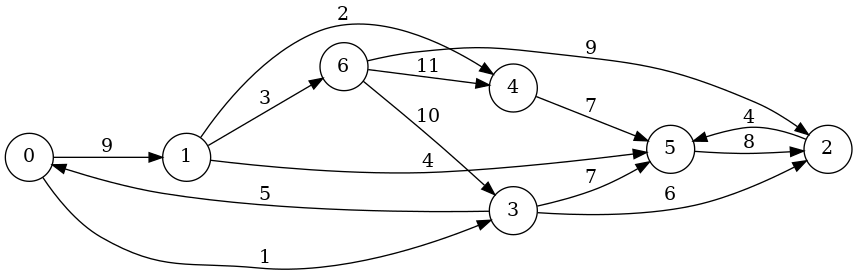
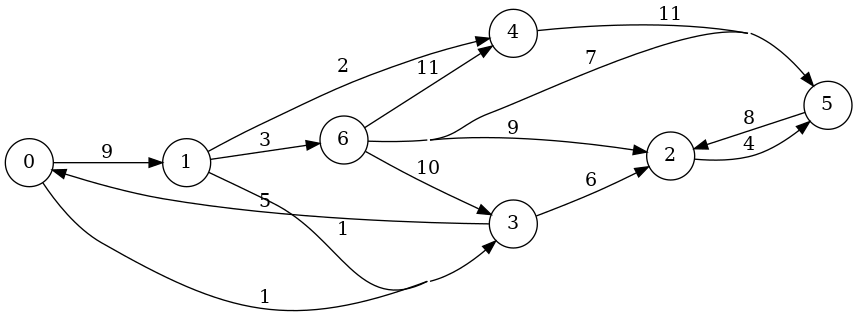
pdoc gen

diff --git a/docs/pygraphblas/matrix.html b/docs/pygraphblas/matrix.html
@@ -706,9 +706,9 @@ class Matrix:
         ![Matrix_eadd_A.png](../imgs/Matrix_eadd_A.png)
 
         &gt;&gt;&gt; B = Matrix.from_lists(
-        ...    [0, 1, 3],
-        ...    [1, 5, 5],
-        ...    [9, 4, 7], 7, 7)
+        ...    [0, 1, 4, 6],
+        ...    [1, 3, 5, 5],
+        ...    [9, 1, 4, 7], 7, 7)
         &gt;&gt;&gt; g = draw_graph(B, filename=&#39;/docs/imgs/Matrix_eadd_B&#39;)
 
         ![Matrix_eadd_B.png](../imgs/Matrix_eadd_B.png)
@@ -717,12 +717,12 @@ class Matrix:
         &gt;&gt;&gt; print(A.eadd(B))
               0  1  2  3  4  5  6
           0|     9     1         |  0
-          1|              2  4  3|  1
+          1|           1  2     3|  1
           2|                 4   |  2
-          3|  5     6        7   |  3
-          4|                 7   |  4
+          3|  5     6            |  3
+          4|                11   |  4
           5|        8            |  5
-          6|        9 10 11      |  6
+          6|        9 10 11  7   |  6
               0  1  2  3  4  5  6
 
         ![Matrix_eadd_C.png](../imgs/Matrix_eadd_C.png)
@@ -2758,9 +2758,9 @@ various combinations of calling <code><a title="pygraphblas.matrix.Matrix.mxm" h
         ![Matrix_eadd_A.png](../imgs/Matrix_eadd_A.png)
 
         &gt;&gt;&gt; B = Matrix.from_lists(
-        ...    [0, 1, 3],
-        ...    [1, 5, 5],
-        ...    [9, 4, 7], 7, 7)
+        ...    [0, 1, 4, 6],
+        ...    [1, 3, 5, 5],
+        ...    [9, 1, 4, 7], 7, 7)
         &gt;&gt;&gt; g = draw_graph(B, filename=&#39;/docs/imgs/Matrix_eadd_B&#39;)
 
         ![Matrix_eadd_B.png](../imgs/Matrix_eadd_B.png)
@@ -2769,12 +2769,12 @@ various combinations of calling <code><a title="pygraphblas.matrix.Matrix.mxm" h
         &gt;&gt;&gt; print(A.eadd(B))
               0  1  2  3  4  5  6
           0|     9     1         |  0
-          1|              2  4  3|  1
+          1|           1  2     3|  1
           2|                 4   |  2
-          3|  5     6        7   |  3
-          4|                 7   |  4
+          3|  5     6            |  3
+          4|                11   |  4
           5|        8            |  5
-          6|        9 10 11      |  6
+          6|        9 10 11  7   |  6
               0  1  2  3  4  5  6
 
         ![Matrix_eadd_C.png](../imgs/Matrix_eadd_C.png)
@@ -5359,9 +5359,9 @@ interchangeably for either operation.</p>
 </code></pre>
 <p><img alt="Matrix_eadd_A.png" src="../imgs/Matrix_eadd_A.png"></p>
 <pre><code class="language-python-repl">&gt;&gt;&gt; B = Matrix.from_lists(
-...    [0, 1, 3],
-...    [1, 5, 5],
-...    [9, 4, 7], 7, 7)
+...    [0, 1, 4, 6],
+...    [1, 3, 5, 5],
+...    [9, 1, 4, 7], 7, 7)
 &gt;&gt;&gt; g = draw_graph(B, filename='/docs/imgs/Matrix_eadd_B')
 </code></pre>
 <p><img alt="Matrix_eadd_B.png" src="../imgs/Matrix_eadd_B.png"></p>
@@ -5369,12 +5369,12 @@ interchangeably for either operation.</p>
 &gt;&gt;&gt; print(A.eadd(B))
       0  1  2  3  4  5  6
   0|     9     1         |  0
-  1|              2  4  3|  1
+  1|           1  2     3|  1
   2|                 4   |  2
-  3|  5     6        7   |  3
-  4|                 7   |  4
+  3|  5     6            |  3
+  4|                11   |  4
   5|        8            |  5
-  6|        9 10 11      |  6
+  6|        9 10 11  7   |  6
       0  1  2  3  4  5  6
 </code></pre>
 <p><img alt="Matrix_eadd_C.png" src="../imgs/Matrix_eadd_C.png"></p></div>
@@ -5422,9 +5422,9 @@ interchangeably for either operation.</p>
     ![Matrix_eadd_A.png](../imgs/Matrix_eadd_A.png)
 
     &gt;&gt;&gt; B = Matrix.from_lists(
-    ...    [0, 1, 3],
-    ...    [1, 5, 5],
-    ...    [9, 4, 7], 7, 7)
+    ...    [0, 1, 4, 6],
+    ...    [1, 3, 5, 5],
+    ...    [9, 1, 4, 7], 7, 7)
     &gt;&gt;&gt; g = draw_graph(B, filename=&#39;/docs/imgs/Matrix_eadd_B&#39;)
 
     ![Matrix_eadd_B.png](../imgs/Matrix_eadd_B.png)
@@ -5433,12 +5433,12 @@ interchangeably for either operation.</p>
     &gt;&gt;&gt; print(A.eadd(B))
           0  1  2  3  4  5  6
       0|     9     1         |  0
-      1|              2  4  3|  1
+      1|           1  2     3|  1
       2|                 4   |  2
-      3|  5     6        7   |  3
-      4|                 7   |  4
+      3|  5     6            |  3
+      4|                11   |  4
       5|        8            |  5
-      6|        9 10 11      |  6
+      6|        9 10 11  7   |  6
           0  1  2  3  4  5  6
 
     ![Matrix_eadd_C.png](../imgs/Matrix_eadd_C.png)

diff --git a/docs/pygraphblas/index.html b/docs/pygraphblas/index.html
@@ -8501,9 +8501,9 @@ various combinations of calling <code><a title="pygraphblas.Matrix.mxm" href="#p
         ![Matrix_eadd_A.png](../imgs/Matrix_eadd_A.png)
 
         &gt;&gt;&gt; B = Matrix.from_lists(
-        ...    [0, 1, 3],
-        ...    [1, 5, 5],
-        ...    [9, 4, 7], 7, 7)
+        ...    [0, 1, 4, 6],
+        ...    [1, 3, 5, 5],
+        ...    [9, 1, 4, 7], 7, 7)
         &gt;&gt;&gt; g = draw_graph(B, filename=&#39;/docs/imgs/Matrix_eadd_B&#39;)
 
         ![Matrix_eadd_B.png](../imgs/Matrix_eadd_B.png)
@@ -8512,12 +8512,12 @@ various combinations of calling <code><a title="pygraphblas.Matrix.mxm" href="#p
         &gt;&gt;&gt; print(A.eadd(B))
               0  1  2  3  4  5  6
           0|     9     1         |  0
-          1|              2  4  3|  1
+          1|           1  2     3|  1
           2|                 4   |  2
-          3|  5     6        7   |  3
-          4|                 7   |  4
+          3|  5     6            |  3
+          4|                11   |  4
           5|        8            |  5
-          6|        9 10 11      |  6
+          6|        9 10 11  7   |  6
               0  1  2  3  4  5  6
 
         ![Matrix_eadd_C.png](../imgs/Matrix_eadd_C.png)
@@ -11102,9 +11102,9 @@ interchangeably for either operation.</p>
 </code></pre>
 <p><img alt="Matrix_eadd_A.png" src="../imgs/Matrix_eadd_A.png"></p>
 <pre><code class="language-python-repl">&gt;&gt;&gt; B = Matrix.from_lists(
-...    [0, 1, 3],
-...    [1, 5, 5],
-...    [9, 4, 7], 7, 7)
+...    [0, 1, 4, 6],
+...    [1, 3, 5, 5],
+...    [9, 1, 4, 7], 7, 7)
 &gt;&gt;&gt; g = draw_graph(B, filename='/docs/imgs/Matrix_eadd_B')
 </code></pre>
 <p><img alt="Matrix_eadd_B.png" src="../imgs/Matrix_eadd_B.png"></p>
@@ -11112,12 +11112,12 @@ interchangeably for either operation.</p>
 &gt;&gt;&gt; print(A.eadd(B))
       0  1  2  3  4  5  6
   0|     9     1         |  0
-  1|              2  4  3|  1
+  1|           1  2     3|  1
   2|                 4   |  2
-  3|  5     6        7   |  3
-  4|                 7   |  4
+  3|  5     6            |  3
+  4|                11   |  4
   5|        8            |  5
-  6|        9 10 11      |  6
+  6|        9 10 11  7   |  6
       0  1  2  3  4  5  6
 </code></pre>
 <p><img alt="Matrix_eadd_C.png" src="../imgs/Matrix_eadd_C.png"></p></div>
@@ -11165,9 +11165,9 @@ interchangeably for either operation.</p>
     ![Matrix_eadd_A.png](../imgs/Matrix_eadd_A.png)
 
     &gt;&gt;&gt; B = Matrix.from_lists(
-    ...    [0, 1, 3],
-    ...    [1, 5, 5],
-    ...    [9, 4, 7], 7, 7)
+    ...    [0, 1, 4, 6],
+    ...    [1, 3, 5, 5],
+    ...    [9, 1, 4, 7], 7, 7)
     &gt;&gt;&gt; g = draw_graph(B, filename=&#39;/docs/imgs/Matrix_eadd_B&#39;)
 
     ![Matrix_eadd_B.png](../imgs/Matrix_eadd_B.png)
@@ -11176,12 +11176,12 @@ interchangeably for either operation.</p>
     &gt;&gt;&gt; print(A.eadd(B))
           0  1  2  3  4  5  6
       0|     9     1         |  0
-      1|              2  4  3|  1
+      1|           1  2     3|  1
       2|                 4   |  2
-      3|  5     6        7   |  3
-      4|                 7   |  4
+      3|  5     6            |  3
+      4|                11   |  4
       5|        8            |  5
-      6|        9 10 11      |  6
+      6|        9 10 11  7   |  6
           0  1  2  3  4  5  6
 
     ![Matrix_eadd_C.png](../imgs/Matrix_eadd_C.png)

diff --git a/pygraphblas/matrix.py b/pygraphblas/matrix.py
@@ -674,9 +674,9 @@ class Matrix:
         ![Matrix_eadd_A.png](../imgs/Matrix_eadd_A.png)
 
         >>> B = Matrix.from_lists(
-        ...    [0, 1, 3],
-        ...    [1, 5, 5],
-        ...    [9, 4, 7], 7, 7)
+        ...    [0, 1, 4, 6],
+        ...    [1, 3, 5, 5],
+        ...    [9, 1, 4, 7], 7, 7)
         >>> g = draw_graph(B, filename='/docs/imgs/Matrix_eadd_B')
 
         ![Matrix_eadd_B.png](../imgs/Matrix_eadd_B.png)
@@ -685,12 +685,12 @@ class Matrix:
         >>> print(A.eadd(B))
               0  1  2  3  4  5  6
           0|     9     1         |  0
-          1|              2  4  3|  1
+          1|           1  2     3|  1
           2|                 4   |  2
-          3|  5     6        7   |  3
-          4|                 7   |  4
+          3|  5     6            |  3
+          4|                11   |  4
           5|        8            |  5
-          6|        9 10 11      |  6
+          6|        9 10 11  7   |  6
               0  1  2  3  4  5  6
 
         ![Matrix_eadd_C.png](../imgs/Matrix_eadd_C.png)
